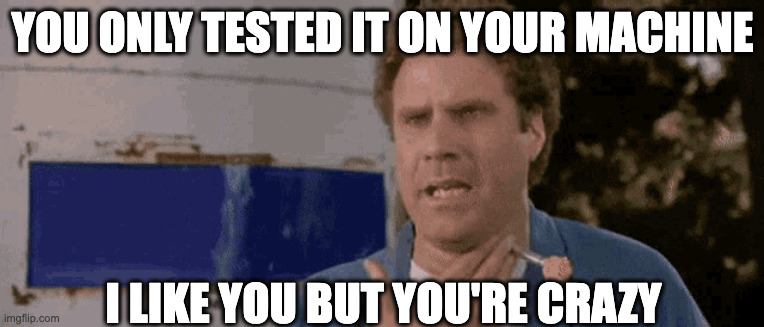
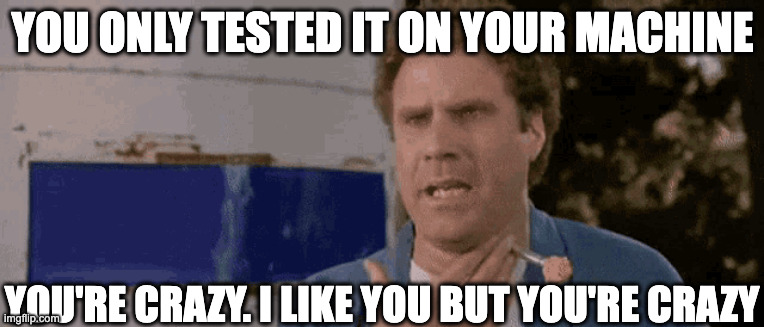
chore: updates old school image

Changed region(s): [[0.0, 0.8257, 0.9935, 1.0]]

diff --git a/docs/4-virtual-machines-containers/4.5.3-tilt.md b/docs/4-virtual-machines-containers/4.5.3-tilt.md
@@ -62,7 +62,7 @@ Key features of Tilt include:
 
 ## Exercise 1: Old school
 
-![old school image](img4/old-school.png ':class=img-center :alt=old school image')
+![old school image](img4/old-school.jpg ':class=img-center :alt=old school image')
 
 In order to explore and grasp the benefit that Tilt adds to the development experience, we are going to work through what it's like at different stages.
 
